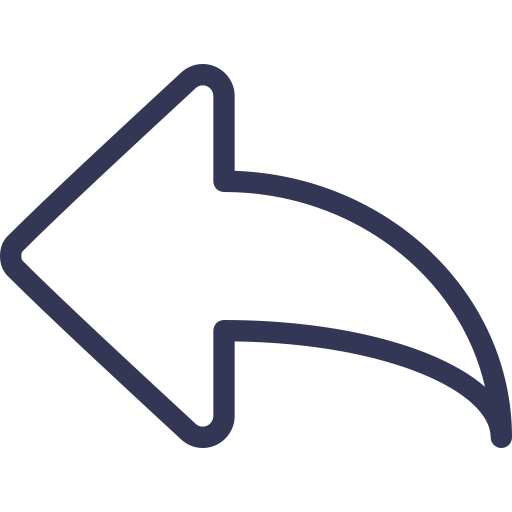
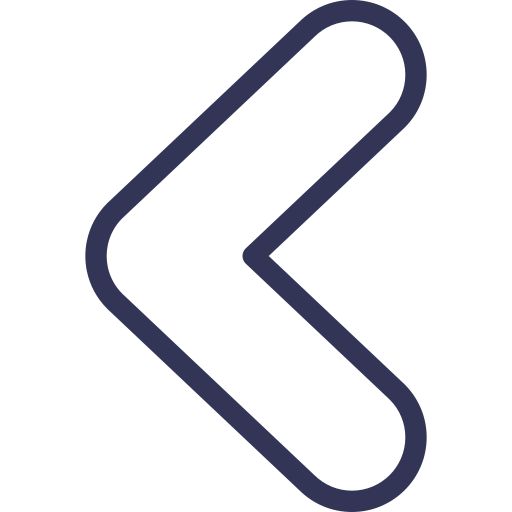
backward button

Changed region(s): [[0.0, 0.0, 1.0, 1.0]]

diff --git a/src/components/AccountManagement/index.jsx b/src/components/AccountManagement/index.jsx
@@ -8,7 +8,6 @@ import './AccountManagement.scss';
 
 import DashboardLayout from 'components/common/DashboardLayout';
 import WelcomeBar from 'components/Dashboard/WelcomeSection';
-import PREVIOUS_ICON from 'assets/images/back.png';
 import cameraIcon from 'assets/images/camera-icon.png';
 import Thumbnail from 'components/common/Thumbnail';
 import VerifiedIcon from 'assets/images/verified.png';
@@ -16,6 +15,7 @@ import General from './General';
 import EmailPhone from './EmailAndPhone';
 import Security from './Security';
 import Documents from './Documents';
+import GoBack from 'components/common/GoBack';
 
 const AccountManagement = ({
   userData,
@@ -37,6 +37,7 @@ const AccountManagement = ({
   const { data } = userData;
   const { profileImage, onImageChange } = profileImageData;
 
+  const onClickHandler = () => history.goBack();
   const panes = [
     {
       menuItem: global.translate('General'),
@@ -106,12 +107,8 @@ const AccountManagement = ({
             , {global.translate('manage your 2U account')}
           </span>
         </WelcomeBar>
-        <Image
-          src={PREVIOUS_ICON}
-          height={30}
-          className="goBack"
-          onClick={() => history.goBack()}
-        />
+        <GoBack onClickHandler={onClickHandler} />
+      
         <div className="account-management-container">
           <div className="top-info">
             <div className="avatar-image">

diff --git a/src/components/Wallets/index.jsx b/src/components/Wallets/index.jsx
@@ -21,6 +21,7 @@ import AddBig from 'assets/images/addBig.png';
 import AddWalletModal from 'components/Wallets/AddWalletModal';
 
 import CurrencyExchangeIcon from 'assets/images/CurrencyExchangeIcon.png';
+import PREVIOUS_ICON from 'assets/images/back.png';
 
 import ConfirmModal from 'components/common/ConfirmModal';
 import './Wallets.scss';
@@ -37,6 +38,7 @@ import EditWalletModal from './EditWalletModal';
 import FailedModal from './FailedModal';
 import WalletOptionsModal from './WalletOptionsModal';
 import useWindowSize from 'utils/useWindowSize';
+import GoBack from 'components/common/GoBack';
 
 const WalletComponents = ({
   userData,
@@ -178,6 +180,7 @@ const WalletComponents = ({
   const indexOfLastWallet = currentPage * ITEMS_PER_PAGE;
   const indexOfFirstWallet = indexOfLastWallet - ITEMS_PER_PAGE;
 
+  const onClickHandler = () => history.goBack();
   const showingWallets =
     Array.isArray(data) &&
     data[0] &&
@@ -218,6 +221,10 @@ const WalletComponents = ({
             </div>
           </div>
         </WelcomeBar>
+        <div>
+          <GoBack onClickHandler={onClickHandler} />
+        </div>
+
         <ConfirmModal
           close={() => setModalOpen(false)}
           isOpened={isModalOpened}

diff --git a/src/components/MoneyTransfer/AddMoney/index.jsx b/src/components/MoneyTransfer/AddMoney/index.jsx
@@ -3,9 +3,11 @@ import React, { useState, useEffect, useRef } from 'react';
 import PropTypes from 'prop-types';
 import { Image, Form, Input, Label } from 'semantic-ui-react';
 import { MonthRangeInput } from 'semantic-ui-calendar-react';
+import { useHistory } from 'react-router-dom';
 
 import './AddMoney.scss';
 import DashboardLayout from 'components/common/DashboardLayout';
+import GoBack from 'components/common/GoBack';
 
 import creditCardImage from 'assets/images/pay-online.png';
 import WelcomeBar from 'components/Dashboard/WelcomeSection';
@@ -38,6 +40,9 @@ const AddMoney = ({
   const [options, setOptions] = useState(defaultOptions);
   const cvvRef = useRef(null);
 
+  const history = useHistory();
+
+  const onClickHandler = () => history.goBack();
   const { Currency } = addMoneyData;
 
   const handleChange = (_, { value }) => {
@@ -85,6 +90,7 @@ const AddMoney = ({
             {global.translate('Add money using a credit card')}
           </span>
         </WelcomeBar>
+        <GoBack onClickHandler={onClickHandler} />
         <div className="add-money-container">
           <div>
             <Image src={creditCardImage} size="medium" centered />

diff --git a/src/components/common/GoBack/index.jsx b/src/components/common/GoBack/index.jsx
@@ -1,0 +1,17 @@
+import React from 'react';
+import { Image } from 'semantic-ui-react';
+import PREVIOUS_ICON from 'assets/images/arrow.png';
+import classes from './GoBack.module.scss';
+
+const GoBack = ({ onClickHandler }) => (
+  <div className={classes.GoBack}>
+    <Image
+      src={PREVIOUS_ICON}
+      height={30}
+      className="goBack"
+      onClick={onClickHandler}
+    />
+  </div>
+);
+
+export default GoBack;

diff --git a/src/components/MoneyTransfer/AddMoney/AddMoneyModal.jsx b/src/components/MoneyTransfer/AddMoney/AddMoneyModal.jsx
@@ -13,6 +13,7 @@ import alertIcon from 'assets/images/alert.png';
 import Loader from 'components/common/Loader';
 import clearCardOperationFeesAction from 'redux/actions/addMoney/clearCardOperationFees';
 import addMoneyFromCreditCardAction from 'redux/actions/addMoney/addMoneyFromCreditCard';
+
 import './AddMoneyModal.scss';
 
 const AddMoneyModal = ({

diff --git a/src/components/common/GoBack/GoBack.module.scss b/src/components/common/GoBack/GoBack.module.scss
@@ -1,0 +1,15 @@
+.GoBack {
+  margin-top: -3.6rem;
+  width: 2.5rem;
+  height: 2.5rem;
+  padding: 0.2rem;
+  position: absolute;
+  img {
+    // width: 80%;
+  }
+  &:hover {
+    cursor: pointer;
+    background-color: rgba(105, 104, 104, 0.068);
+    border-radius: 50%;
+  }
+}

diff --git a/src/components/Stores/MyStores/MyStores.scss b/src/components/Stores/MyStores/MyStores.scss
@@ -17,11 +17,6 @@
     padding: 2rem 2rem 0.1px 2rem;
   }
 
-  img.goBack {
-    position: absolute;
-    left: 32px;
-    top: 90px;
-  }
 
   img.addImage {
     position: fixed;

diff --git a/src/components/Stores/AddStore/AddStore.scss b/src/components/Stores/AddStore/AddStore.scss
@@ -2,11 +2,6 @@
   width: 595px;
   margin: 20px auto;
 
-  .goBack {
-    position: absolute;
-    left: 32px;
-    top: 90px;
-  }
 
   .add-store-form {
     width: 100%;

diff --git a/src/components/AccountManagement/AccountManagement.scss b/src/components/AccountManagement/AccountManagement.scss
@@ -1,9 +1,4 @@
-img.goBack {
-  position: absolute !important;
-  left: 14px;
-  top: 90px;
-  cursor: pointer;
-}
+
 
 .account-management-container {
   span {

diff --git a/src/components/Fidelity/Fidelity.scss b/src/components/Fidelity/Fidelity.scss
@@ -1,9 +1,3 @@
-img.goBack {
-  position: absolute !important;
-  left: 14px;
-  top: 90px;
-  cursor: pointer;
-}
 
 .fidelity-container {
   width: 95%;

diff --git a/src/assets/styles/style.scss b/src/assets/styles/style.scss
@@ -114,6 +114,7 @@ a:hover {
 
 .lighter {
   font-weight: lighter;
+  margin-left: 1rem;
 }
 
 .no-bold {
